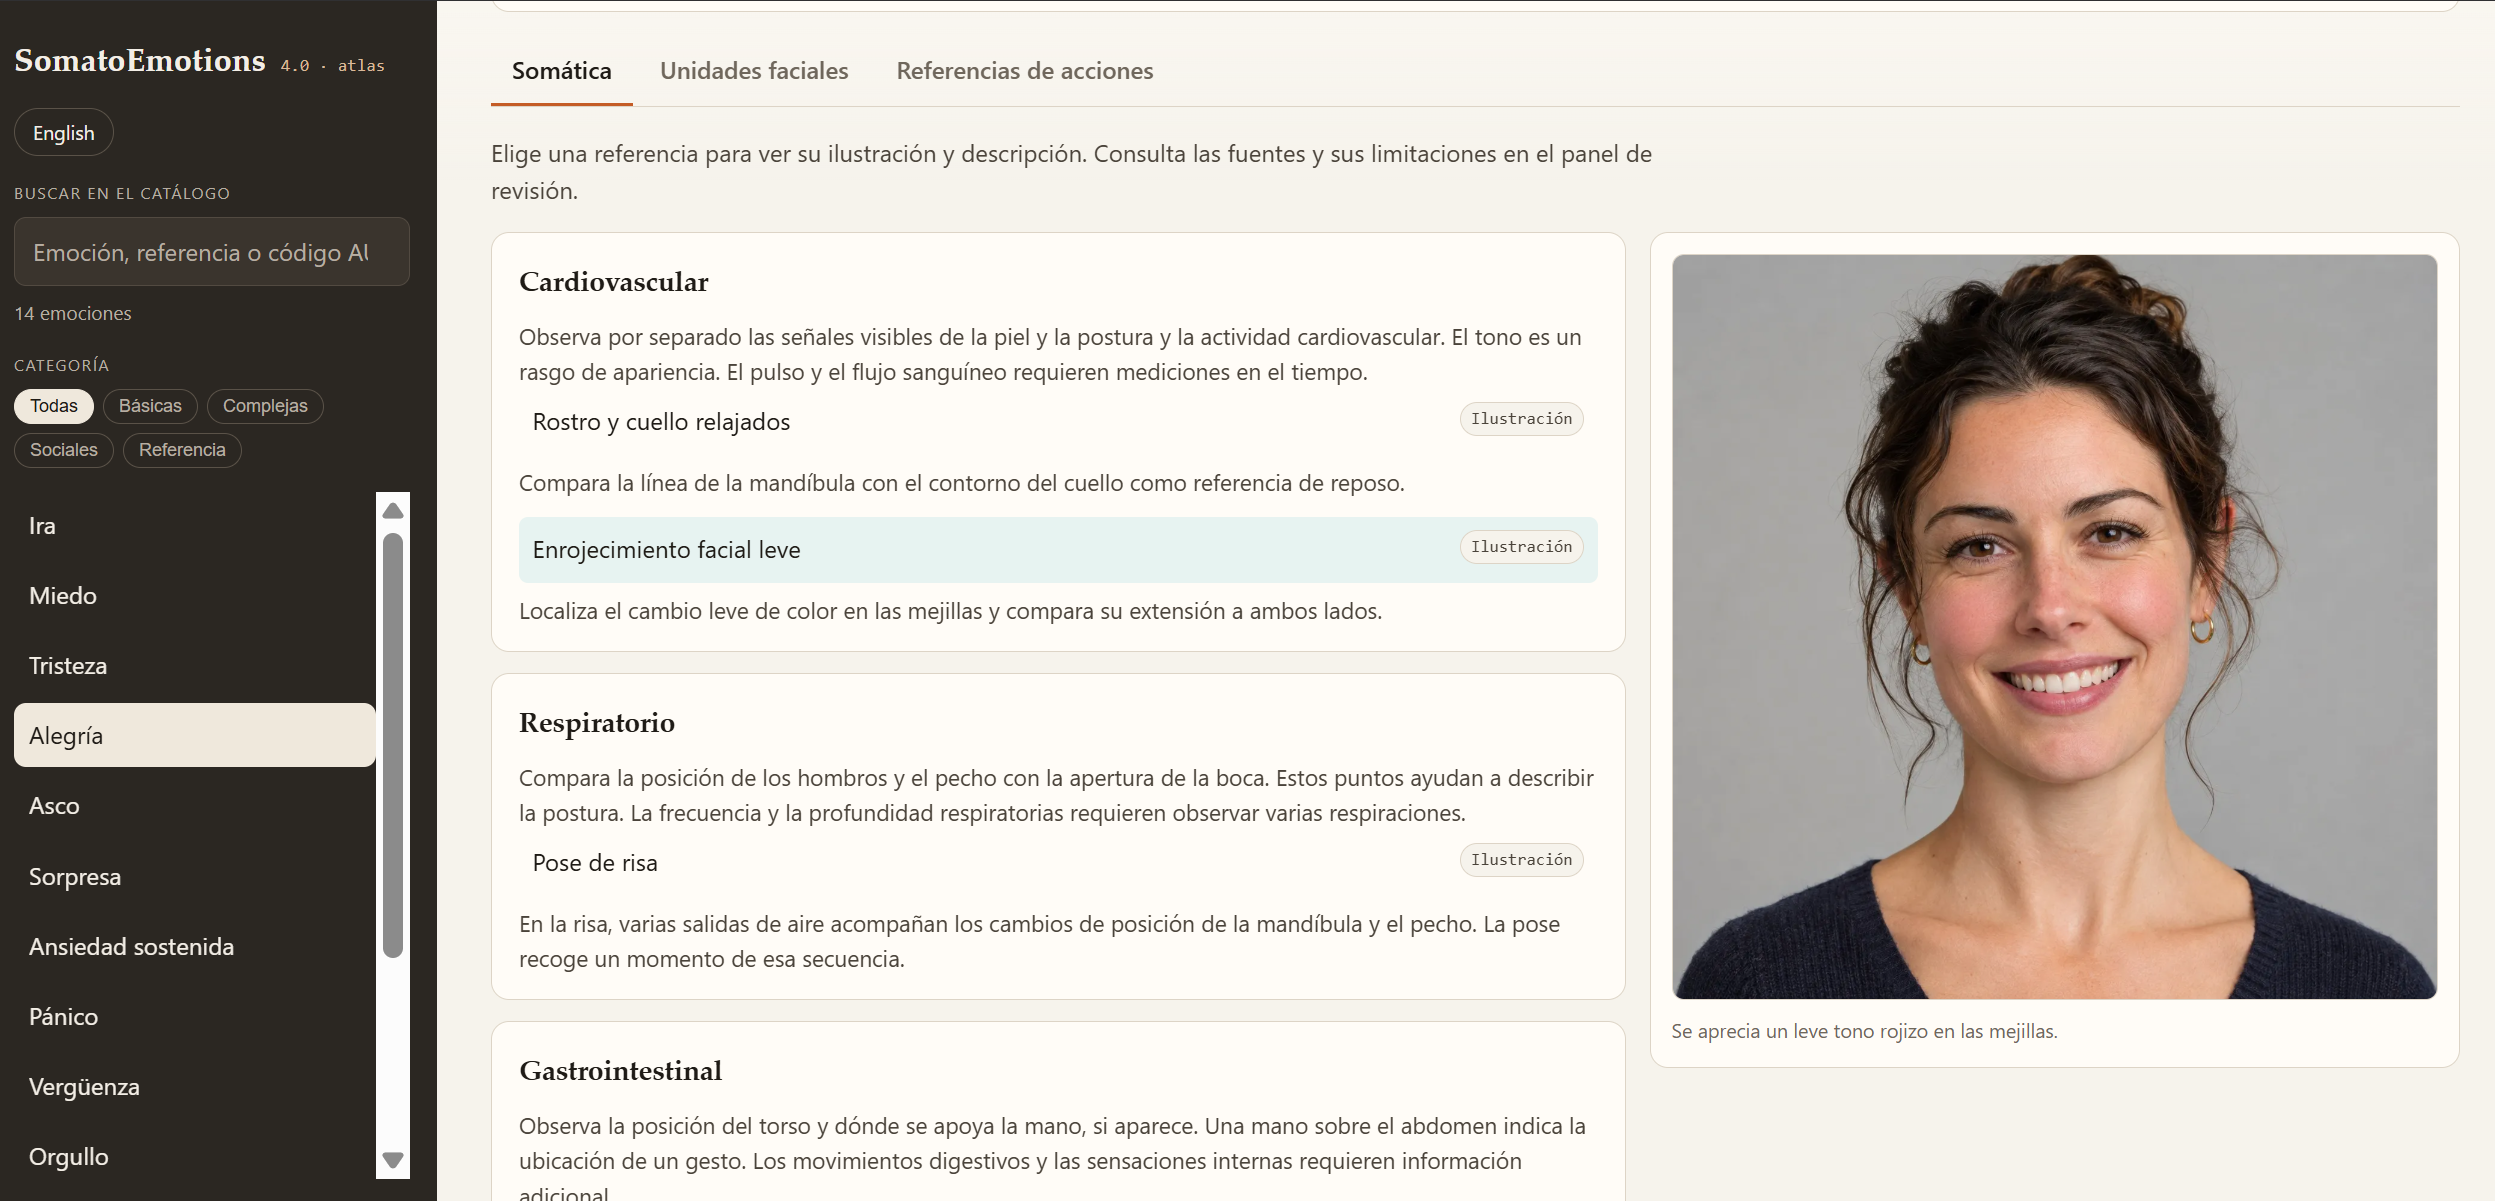
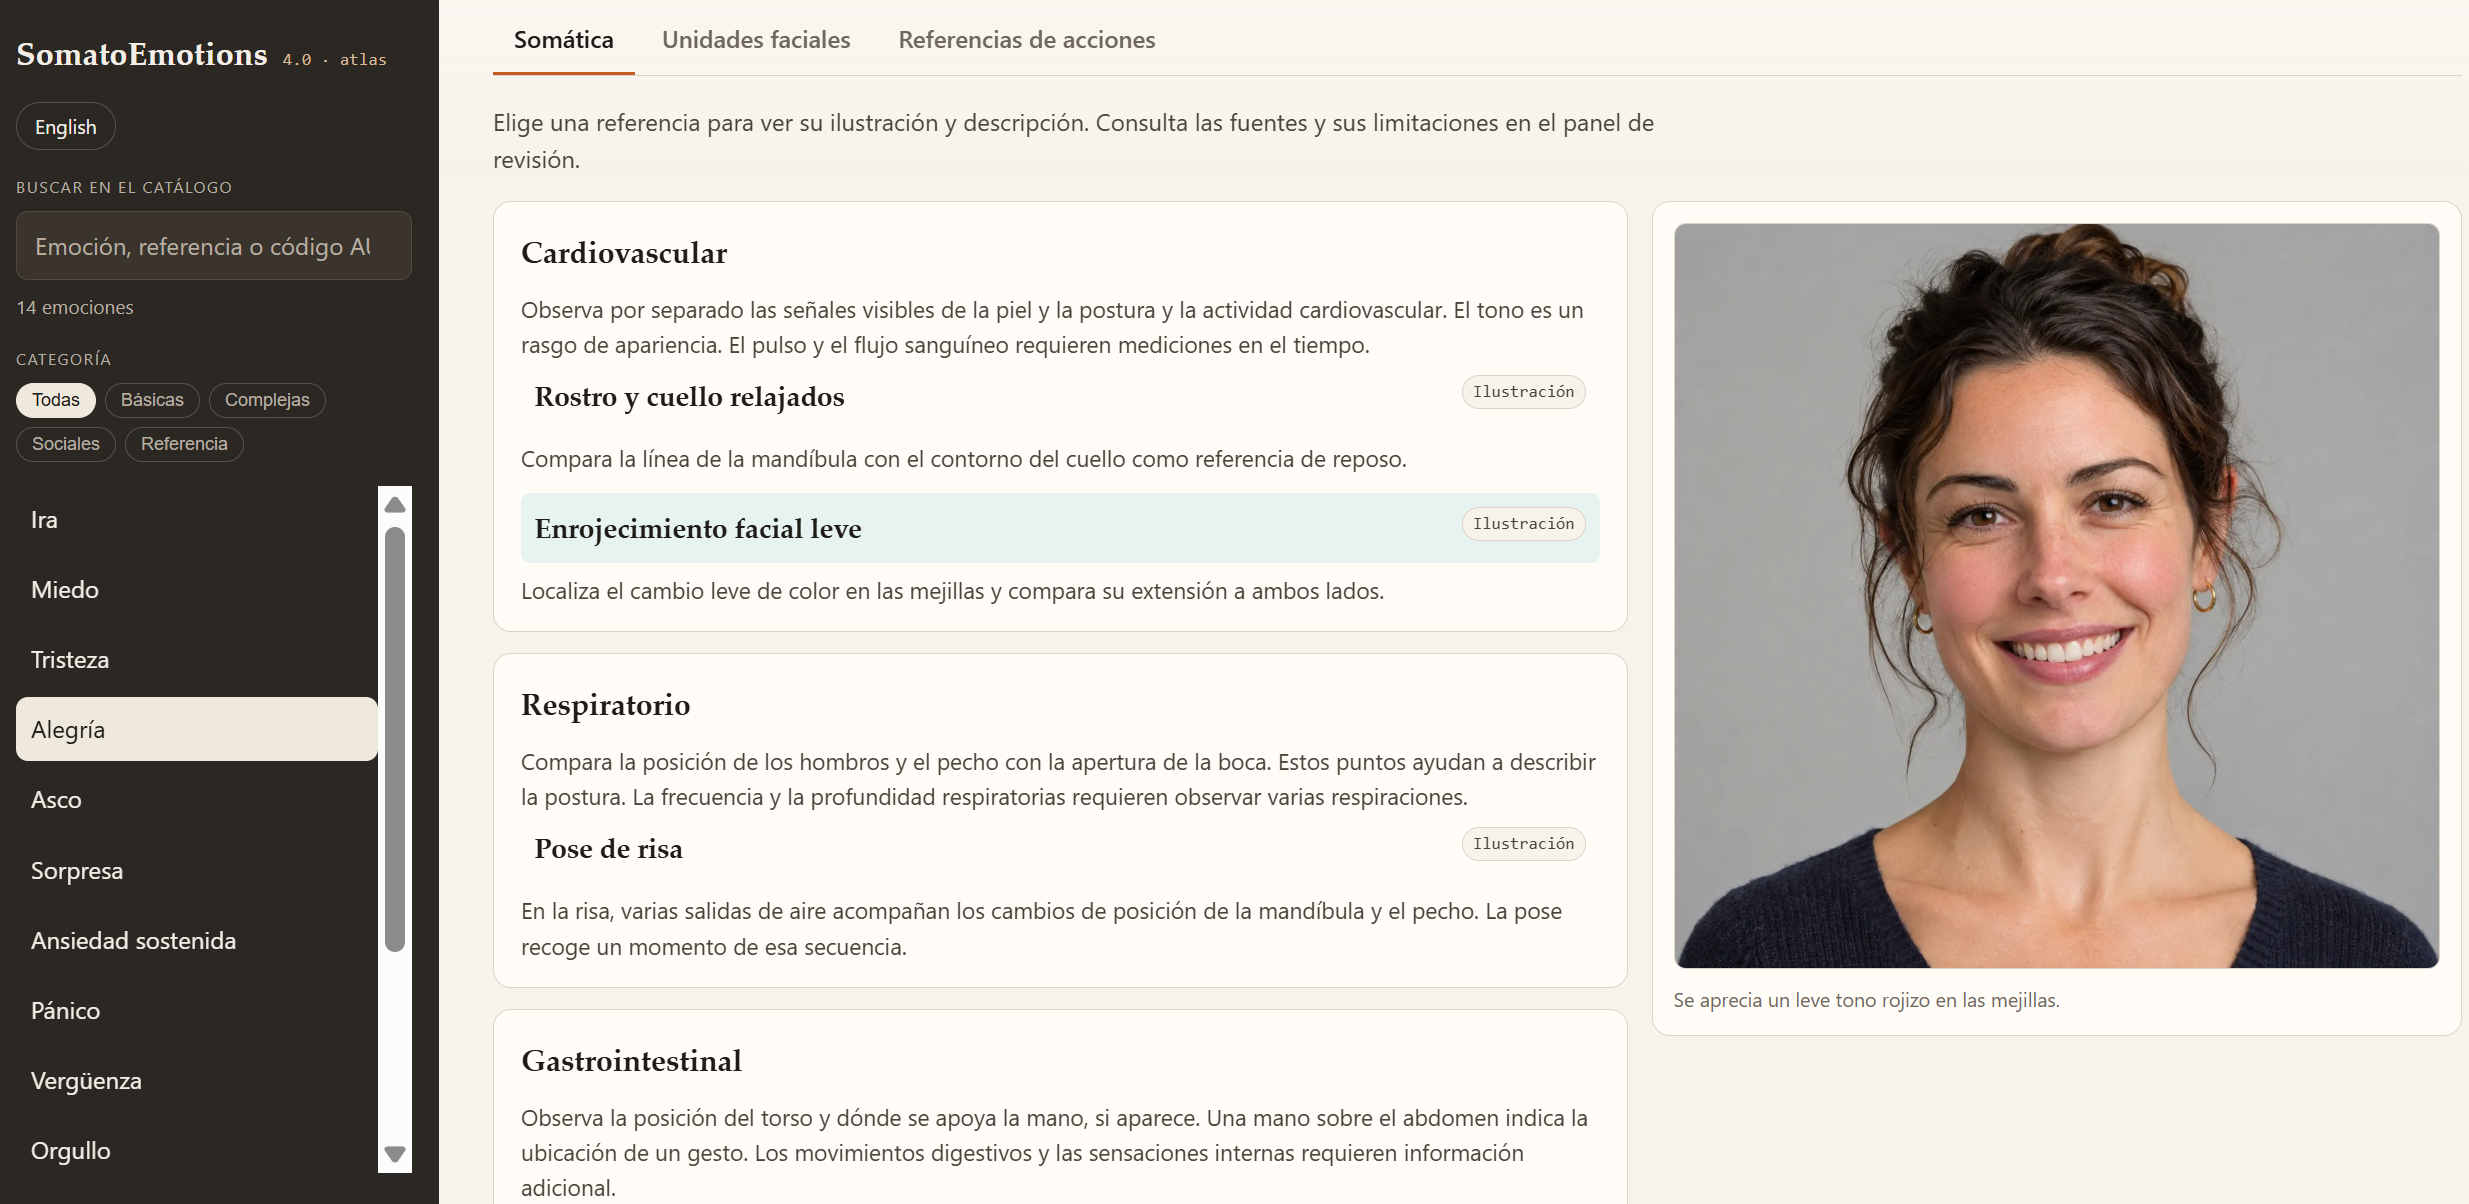
Publish static site

diff --git a/src/ui/reference-gallery/main.js b/src/ui/reference-gallery/main.js
@@ -10,10 +10,23 @@ export function describeRecord(record) {
   };
 }
 export function createGallery(model, doc = globalThis.document, i18n = { locale: () => 'en' }) {
+  const visualHosts = new Map(
+    ['somatic-visuals', 'facs-visuals', 'action-visuals'].map((id) => {
+      const visuals = doc.getElementById(id);
+      return [visuals, visuals.parentElement];
+    }),
+  );
   const notify = (message) => {
     doc.getElementById('copy-toast').textContent = message;
   };
-  function show(record, visuals) {
+  function show(record, visuals, origin) {
+    const host = visualHosts.get(visuals);
+    if (doc.defaultView.matchMedia('(max-width: 600px)').matches) {
+      const card = origin.closest('li, article');
+      if (card) card.append(visuals);
+    } else {
+      host.append(visuals);
+    }
     const ref = resolveReference(record, model.visuals, model.prompts.prompts);
     visuals.replaceChildren();
     const figure = element('figure', '', 'visual-block', doc);
@@ -125,7 +138,7 @@ export function createGallery(model, doc = globalThis.document, i18n = { locale:
         x.classList.toggle('active', active);
         x.setAttribute('aria-pressed', String(active));
       }
-      show(record, visuals);
+      show(record, visuals, b);
     });
     if (facs) b.classList.add('facs-select');
     return b;
@@ -137,19 +150,20 @@ export function createGallery(model, doc = globalThis.document, i18n = { locale:
     const somatic = doc.getElementById('somatic-list'),
       facs = doc.getElementById('facs-list'),
       actions = doc.getElementById('list-actions');
-    for (const id of ['somatic-visuals', 'facs-visuals', 'action-visuals'])
-      doc
-        .getElementById(id)
-        .replaceChildren(
-          element(
-            'p',
-            i18n.locale() === 'es'
-              ? 'Selecciona una referencia para ver su ilustración y descripción.'
-              : 'Select a reference to view its illustration and description.',
-            'visual-placeholder',
-            doc,
-          ),
-        );
+    for (const id of ['somatic-visuals', 'facs-visuals', 'action-visuals']) {
+      const visuals = doc.getElementById(id);
+      visualHosts.get(visuals).append(visuals);
+      visuals.replaceChildren(
+        element(
+          'p',
+          i18n.locale() === 'es'
+            ? 'Selecciona una referencia para ver su ilustración y descripción.'
+            : 'Select a reference to view its illustration and description.',
+          'visual-placeholder',
+          doc,
+        ),
+      );
+    }
     facs.replaceChildren();
     actions.replaceChildren();
     const channels = {
